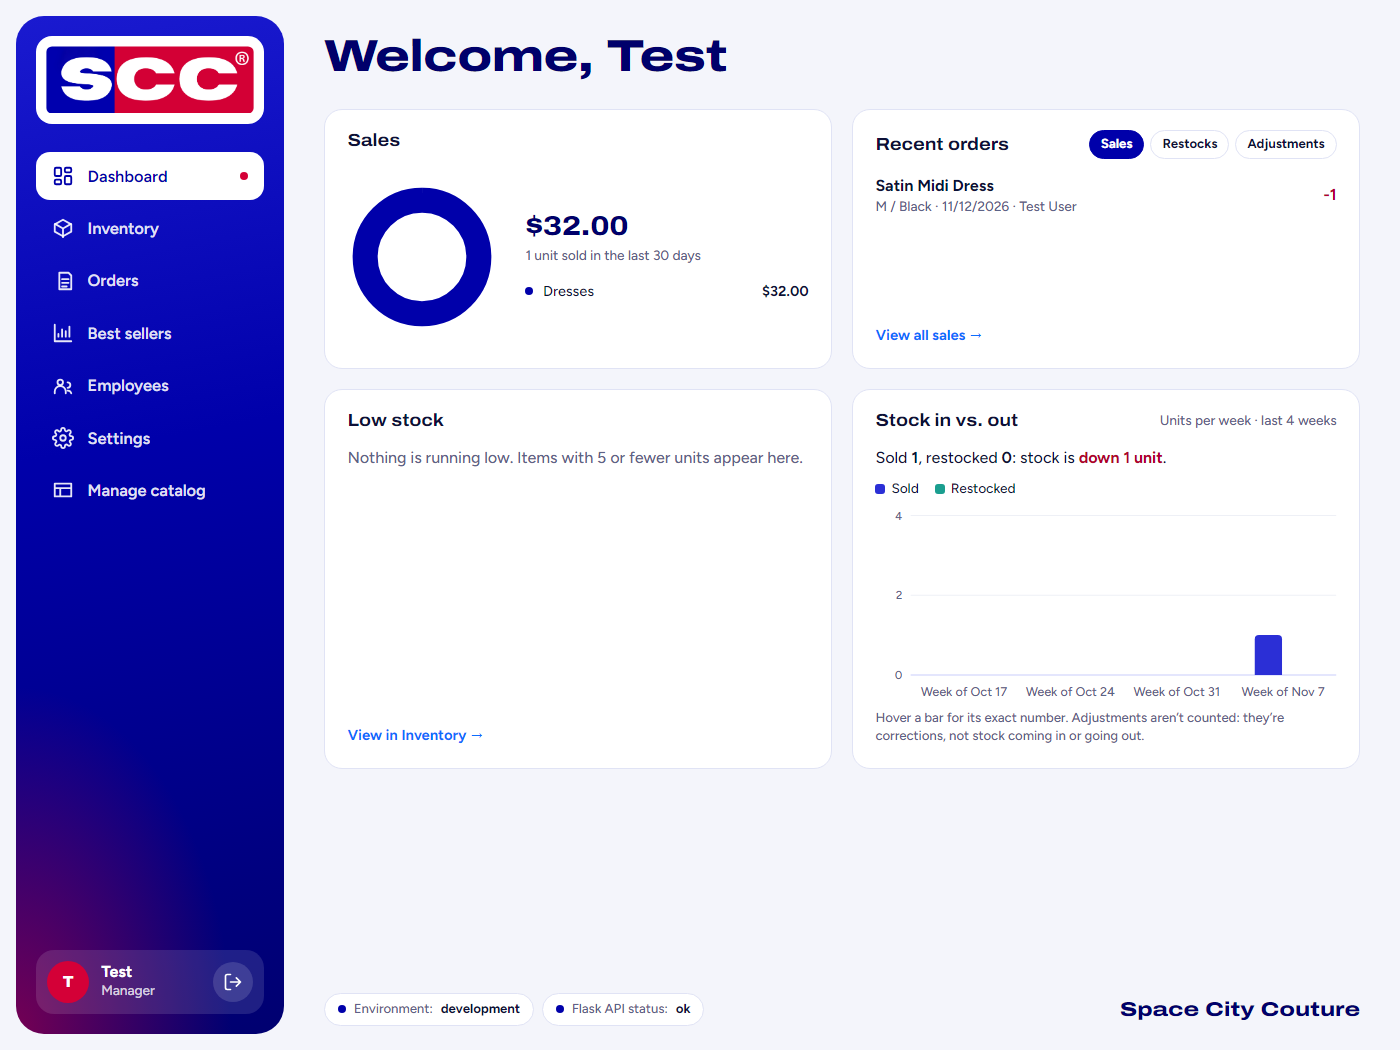
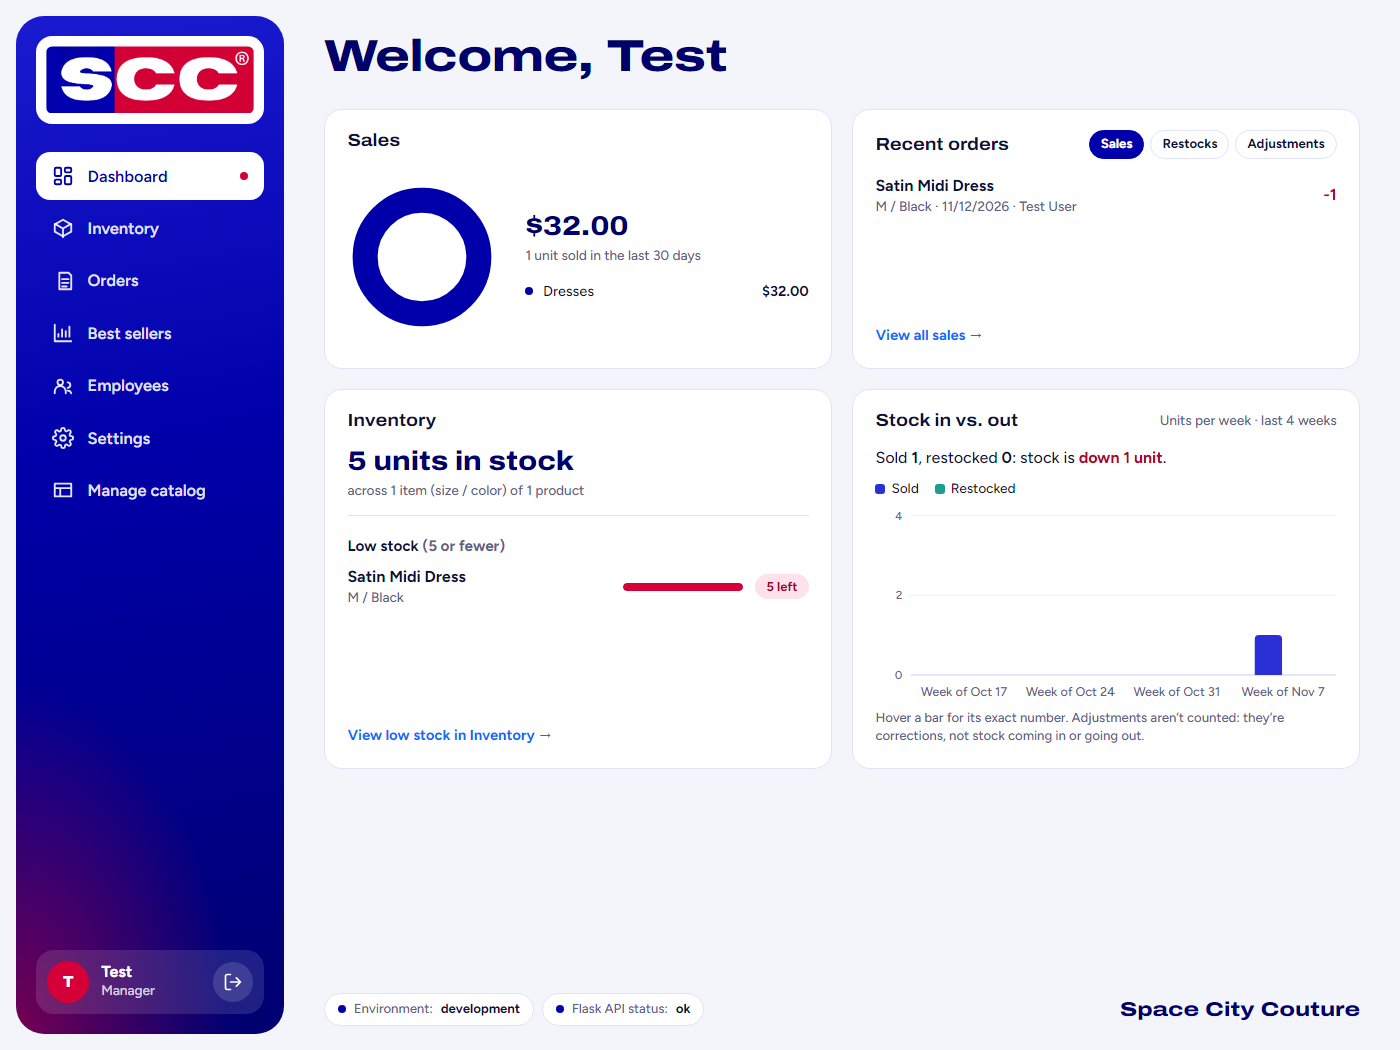
Demo fixes: Not available tag, Low stock filter, current inventory on the Dashboard
So every step of the demo script (slides 45-46) shows what it says:
- step 5: products set to Not available get a Not available tag on Inventory (before, nothing showed the change)
- step 8: Inventory has a Low stock only filter, and the Dashboard link opens it
- step 9: the Dashboard shows current inventory (units in stock, items, products) from a new inventory_totals field on /dashboard

diff --git a/frontend/server.js b/frontend/server.js
@@ -420,6 +420,7 @@ async function loadInventory() {
       Color: x.Color ?? x.color,
       Location: x.Location ?? x.location,
       Category: x.Category ?? x.category ?? '',
+      Available: x.Available ?? x.available ?? x.Availability ?? null,
       Quantity: x.Quantity ?? x.quantity,
       Price: x.Price ?? x.price
     }));
@@ -438,16 +439,20 @@ function groupInventory(rows, products, categories, threshold) {
   for (const row of rows) {
     const key = String(row.Product_ID ?? row.Product);
     if (!groups.has(key)) {
-      groups.set(key, { id: row.Product_ID, name: row.Product || 'Unknown product', category: row.Category || '', variants: [] });
+      groups.set(key, { id: row.Product_ID, name: row.Product || 'Unknown product', category: row.Category || '',
+        available: row.Available === undefined || row.Available === null ? true : Boolean(Number(row.Available)), variants: [] });
     }
     groups.get(key).variants.push(row);
   }
   for (const p of arrayData(products)) {
     const key = String(p.Product_ID);
+    const available = p.Availability === undefined || p.Availability === null ? true : Boolean(Number(p.Availability));
     if (groups.has(key)) {
-      if (!groups.get(key).category) groups.get(key).category = categoryNames.get(String(p.Category_ID)) || '';
+      const group = groups.get(key);
+      if (!group.category) group.category = categoryNames.get(String(p.Category_ID)) || '';
+      group.available = available;
     } else {
-      groups.set(key, { id: p.Product_ID, name: p.Name, category: categoryNames.get(String(p.Category_ID)) || '', variants: [] });
+      groups.set(key, { id: p.Product_ID, name: p.Name, category: categoryNames.get(String(p.Category_ID)) || '', available, variants: [] });
     }
   }
   return [...groups.values()].map(g => ({
@@ -463,14 +468,20 @@ app.get('/inventory', pageAccess, async (req, res) => {
       apiGet('/api/products').catch(() => []),
       apiGet('/api/categories').catch(() => [])
     ]);
-    const groups = groupInventory(result.rows, products, categories, result.threshold);
+    const allGroups = groupInventory(result.rows, products, categories, result.threshold);
+    // ?low=1 shows only the low stock variants (and the products they belong to).
+    const lowOnly = req.query.low === '1';
+    const lowCount = allGroups.reduce((n, g) => n + g.low, 0);
+    const groups = lowOnly
+      ? allGroups.filter(g => g.low).map(g => ({ ...g, variants: g.variants.filter(v => Number(v.Quantity) <= result.threshold) }))
+      : allGroups;
     // ?adjust=<Variant_ID> opens that row in Adjust stock mode (chosen from its ⋯ menu).
     const adjusting = /^[1-9]\d*$/.test(String(req.query.adjust || '')) ? String(req.query.adjust) : null;
-    return page(req, res, 'inventory', { ...result, groups, adjusting, dataAvailable: true });
+    return page(req, res, 'inventory', { ...result, groups, allGroups, lowOnly, lowCount, adjusting, dataAvailable: true });
   } catch (err) {
     console.error('Inventory load failed:', err.message);
     return page(req, res, 'inventory', {
-      items: [], rows: [], groups: [], adjusting: null, threshold: 5, dataAvailable: false,
+      items: [], rows: [], groups: [], allGroups: [], lowOnly: false, lowCount: 0, adjusting: null, threshold: 5, dataAvailable: false,
       message: apiError(err, 'Inventory could not be loaded.')
     });
   }

diff --git a/public/css/styles.css b/public/css/styles.css
@@ -969,3 +969,7 @@ h1 {
   .same-for-all { grid-template-columns: 1fr; }
   .inv-variant td:first-child { padding-left: 2.2rem; }
 }
+
+.dash-sub { margin: 0.4rem 0 0.7rem; font-size: 0.95rem; font-weight: 700; }
+.on-hand { margin-bottom: 0.9rem; padding-bottom: 0.9rem; border-bottom: 1px solid var(--line); }
+.on-hand .sales-note { margin-bottom: 0; }

diff --git a/backend/reporting.py b/backend/reporting.py
@@ -198,6 +198,14 @@ def register_reporting_routes(app, connect, read_query):
             WHERE i.Quantity <= %s
             ORDER BY i.Quantity, p.Name, v.Variant_ID LIMIT 5
         ''', (threshold(),))
+        # Current inventory: total units in stock, how many items (variants) and products they make up.
+        on_hand = fetch('''
+            SELECT COALESCE(SUM(i.Quantity), 0) AS units, COUNT(*) AS items,
+                   COUNT(DISTINCT v.Product_ID) AS products
+            FROM Inventory i
+            JOIN Product_Variant v ON v.Variant_ID = i.Variant_ID
+        ''')
+        on_hand = on_hand[0] if on_hand else {}
         # Stock in vs. out: units sold and units restocked in each of the last 4 weeks (7-day blocks
         # ending today). Adjustments are left out: they correct a count, they aren't stock coming in or going out.
         weeks_start = date.today() - timedelta(days=27)
@@ -224,6 +232,9 @@ def register_reporting_routes(app, connect, read_query):
             'recent_orders': recent_by_type['Sale'],
             'recent_by_type': recent_by_type,
             'low_stock': low,
+            'inventory_totals': {'units': int(on_hand.get('units') or 0),
+                                 'items': int(on_hand.get('items') or 0),
+                                 'products': int(on_hand.get('products') or 0)},
             'low_stock_threshold': threshold(),
             'stock_weeks': weeks
         })

diff --git a/docs/redesign-before-after/README.md b/docs/redesign-before-after/README.md
@@ -7,8 +7,8 @@ The data is mostly test records (one product, lots of +1/−1 adjustments), so t
 
 | # | Page | What changed |
 |---|---|---|
-| 1 | [Dashboard](#1-dashboard) | Recent orders shows Sales, with Restocks / Adjustments tabs; "Stock in vs. out" replaces the flat trend graph |
-| 2 | [Inventory](#2-inventory) | Variants grouped under their product with a total; ⋯ menu; Adjust stock with − / + |
+| 1 | [Dashboard](#1-dashboard) | Recent orders shows Sales, with Restocks / Adjustments tabs; current inventory (units in stock) above Low stock; "Stock in vs. out" replaces the flat trend graph |
+| 2 | [Inventory](#2-inventory) | Variants grouped under their product with a total; ⋯ menu; Adjust stock with − / +; "Low stock only" filter; "Not available" tag |
 | 3 | [Add variants](#3-add-variants) | Pick sizes and colors, check the combinations you have, each with its own stock, location, price and cost |
 | 4 | [Edit variant](#4-edit-variant) | Named "Satin Midi Dress – M / Black" instead of "Edit variant #1" |
 | 5 | [Orders](#5-orders) | One actions column with a ⋯ menu; "Order #" |
@@ -25,13 +25,17 @@ The data is mostly test records (one product, lots of +1/−1 adjustments), so t
 |---|---|
 | ![Dashboard before](before-1-dashboard.png) | ![Dashboard after](after-1-dashboard.png) |
 
-Before: 4 of the 5 "Recent Orders" were adjustments, and the trend graph was a flat line with no numbers.
+Before: 4 of the 5 "Recent Orders" were adjustments, the trend graph was a flat line with no numbers, and there was no current inventory figure (demo step 9 shows it).
 
 ## 2. Inventory
 
 | Before | After |
 |---|---|
 | ![Inventory before](before-2-inventory.png) | ![Inventory after](after-2-inventory.png) |
+
+After, with the **Low stock only** filter (used in demo step 8):
+
+![Inventory low stock filter](after-2c-inventory-low-stock-filter.png)
 
 After, in Adjust stock mode (⋯ → Adjust stock):
 
